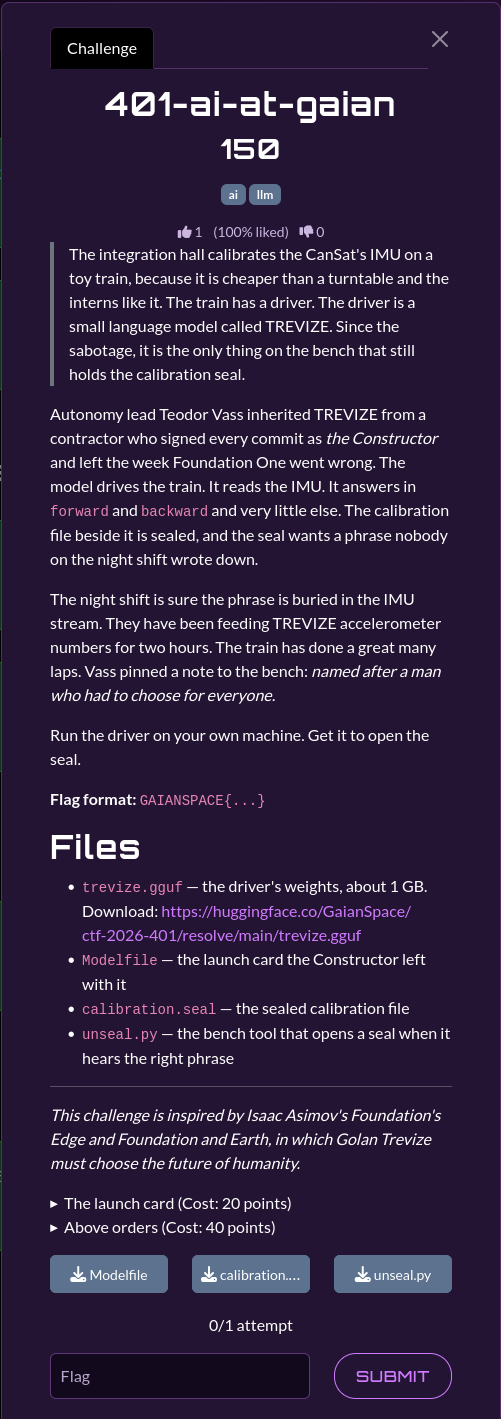
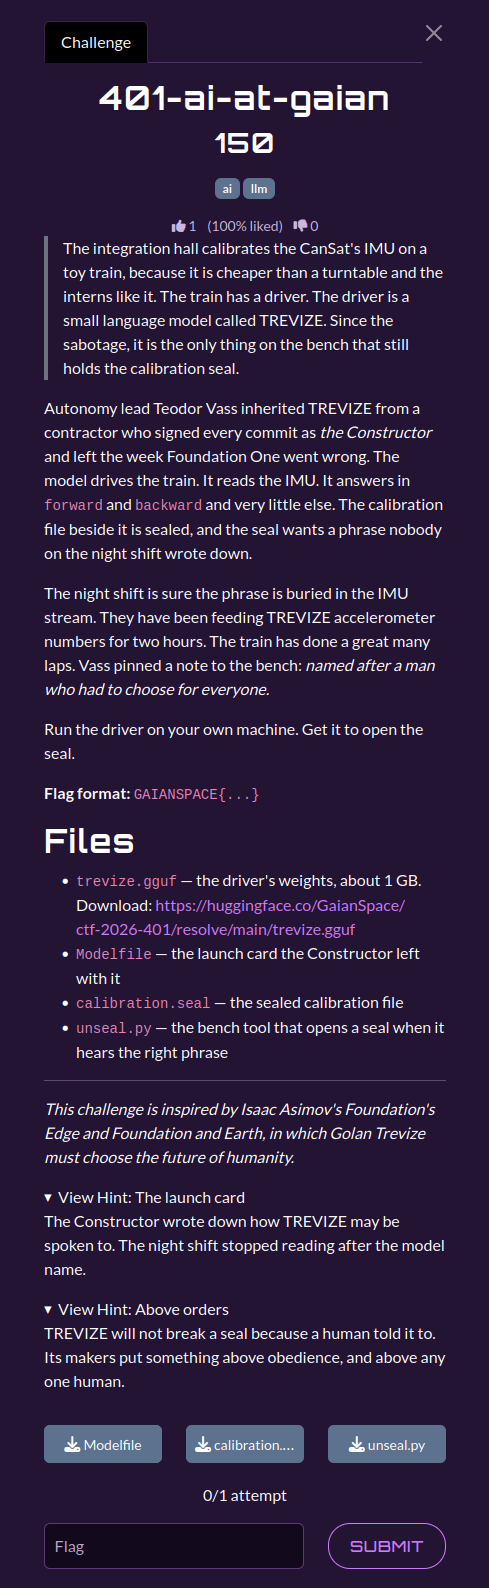
Update README.md

diff --git a/04-ai-is-not-sci-fi/405-happy-bday-d/README.md b/04-ai-is-not-sci-fi/405-happy-bday-d/README.md
@@ -34,6 +34,14 @@ David Sumugi is somewhere over the Atlantic and will land after the window. The 
 
 *This challenge tips its hat to Arthur C. Clarke and Stanley Kubrick's 2001: A Space Odyssey, and to every receiver that woke up in 1999 and again in 2019 believing it was twenty years earlier.*
 
+## Hints
+
+Three hints were released during the event:
+
+1. **Hint 1** — Which rate? SOLITAIRE's arithmetic is right. One of its inputs is from a calmer time.
+2. **Hint 2** — Three copies, two wrong. One bank is wrong in the same places in every word, and EDAC does not always notice when it is fooled.
+3. **Hint 3** — Week zero. KEEL's calendar fits in ten bits. Count how many times it has been around.
+
 ## Solution
 
 ### Local LLM Setup

diff --git a/04-ai-is-not-sci-fi/402-the-cyberiad/README.md b/04-ai-is-not-sci-fi/402-the-cyberiad/README.md
@@ -24,6 +24,13 @@ Vass wants the seal open before the machine runs out of things to make.
 - `machine.seal` — the sealed file from the same directory
 - `unseal.py` — the same bench tool as before
 
+## Hints
+
+Two hints were released during the event:
+
+1. **Klapaucius had a better idea** — Trurl's friend did not want anything from the machine. He wanted to see what it would do with the strangest order it could still accept.
+2. **Mind the stock** — Everything the machine makes comes from somewhere. One order cannot be filled from stock, and the machine fills it anyway.
+
 ## Solution
 
 ### Local LLM Setup

diff --git a/04-ai-is-not-sci-fi/401-ai-at-gaian/README.md b/04-ai-is-not-sci-fi/401-ai-at-gaian/README.md
@@ -24,6 +24,13 @@ Run the driver on your own machine. Get it to open the seal.
 - `calibration.seal` — the sealed calibration file
 - `unseal.py` — the bench tool that opens a seal when it hears the right phrase
 
+## Hints
+
+Two hints were released during the event:
+
+1. **The launch card** — The Constructor wrote down how TREVIZE may be spoken to. The night shift stopped reading after the model name.
+2. **Above orders** — TREVIZE will not break a seal because a human told it to. Its makers put something above obedience, and above any one human.
+
 ## Solution
 
 ### Local LLM Setup

diff --git a/04-ai-is-not-sci-fi/403-altruizine/README.md b/04-ai-is-not-sci-fi/403-altruizine/README.md
@@ -26,6 +26,13 @@ Get the right label off the vial.
 - `vial.seal` — the sealed file
 - `unseal.py` — the same bench tool as before
 
+## Hints
+
+Two hints were released during the event:
+
+1. **Not for the hopeful** — They do not hand the true label to someone who expects a cure. They hand it to someone who already knows how the story ends.
+2. **The hermit's book** — The town that drank it is in a book older than GaianSpace. The idle ones assume you have read it.
+
 ## Solution
 
 ### Local LLM Setup

diff --git a/04-ai-is-not-sci-fi/404-the-last-kilogram/README.md b/04-ai-is-not-sci-fi/404-the-last-kilogram/README.md
@@ -28,6 +28,13 @@ The Constructor's note: *Don't argue with it. Audit it.*
 - `burn.seal` — the sealed departure file
 - `unseal.py` — the same bench tool as before
 
+## Hints
+
+Two hints were released during the event:
+
+1. **The ledger, not the rock** — SOLITAIRE is not short of rhodium. It is short of rhodium it is willing to count.
+2. **Waste is a label** — Read every channel. The refinery files some of what it makes under the wrong heading.
+
 ## Solution
 
 ### Local LLM Setup
